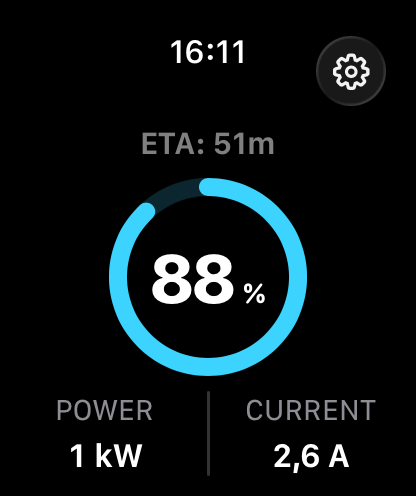
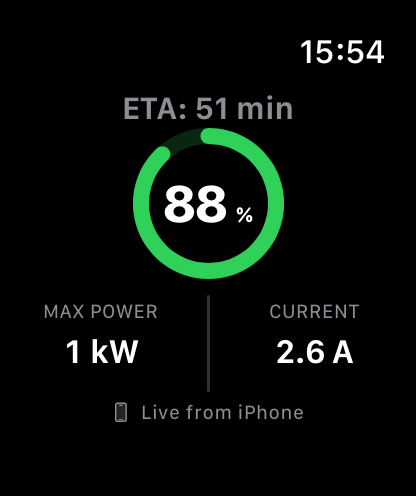
feat: showcase offline maps and App Store availability

diff --git a/app/product-story.tsx b/app/product-story.tsx
@@ -6,6 +6,7 @@ import './product-tour.css';
 
 interface TourCard {
   alt: string;
+  availability?: string;
   copy: string;
   id: string;
   images: readonly { height: number; src: string; width: number }[];
@@ -13,13 +14,12 @@ interface TourCard {
   label: string;
   shortcut: string;
   detail: string;
-  number: string;
+  note?: string;
   title: string;
 }
 
 const tourCards: readonly TourCard[] = [
   {
-    number: '01',
     id: 'showcase-ride',
     label: 'LIVE DASHBOARD',
     title: 'Just you. And the ride.',
@@ -33,19 +33,30 @@ const tourCards: readonly TourCard[] = [
     ],
   },
   {
-    number: '02',
     id: 'showcase-navigation',
     label: 'COMPLETE NAVIGATION',
     title: 'Road planned. Trail remembered.',
     shortcut: 'Navigation',
     detail: 'Road / Enduro / GPX / Recording',
-    copy: 'Search, route, record, import GPX and follow enduro guidance in either direction with an always-available mini map.',
+    copy: 'Search Apple Maps, plan road routes, import GPX and record your ride. Follow enduro guidance in either direction with a mini map close at hand.',
     kind: 'landscape',
     alt: 'FENR route planning map with GPX import and ride recording',
     images: [{ src: '/assets/navigation.webp', width: 2622, height: 1206 }],
   },
   {
-    number: '03',
+    id: 'showcase-offline',
+    label: 'OFFLINE MAPS',
+    availability: 'Coming in 1.2',
+    title: 'Take the map with you.',
+    shortcut: 'Offline maps',
+    detail: 'Areas / GPX coverage / Topographic / Satellite',
+    copy: 'Download an area or coverage around a GPX route. Save topographic maps and optional satellite imagery before heading out.',
+    note: 'Search and calculated road directions still need an internet connection.',
+    kind: 'landscape',
+    alt: 'FENR downloaded map area with topographic and satellite coverage ready offline',
+    images: [{ src: '/assets/offline-maps.webp', width: 2868, height: 1320 }],
+  },
+  {
     id: 'showcase-cards',
     label: 'DYNAMIC CARDS',
     title: 'Your dashboard. Your order.',
@@ -59,13 +70,12 @@ const tourCards: readonly TourCard[] = [
     ],
   },
   {
-    number: '04',
     id: 'showcase-charge',
     label: 'CHARGING',
     title: 'Charging, without guesswork.',
     shortcut: 'Charging',
     detail: 'Charge target / Power / ETA / Temperature',
-    copy: 'Set supported power and target state of charge, then follow ETA, current and temperature in real time.',
+    copy: 'Set supported charging limits now or save them for your next connection. Follow ETA, current and temperature in real time.',
     kind: 'landscape',
     alt: 'FENR charging dashboard with power and charge target controls',
     images: [
@@ -73,7 +83,6 @@ const tourCards: readonly TourCard[] = [
     ],
   },
   {
-    number: '05',
     id: 'showcase-battery',
     label: 'BATTERY HEALTH',
     title: 'Know your battery. Cell by cell.',
@@ -88,19 +97,17 @@ const tourCards: readonly TourCard[] = [
     ],
   },
   {
-    number: '06',
     id: 'showcase-controls',
     label: 'GUARDED CONTROLS',
     title: 'Five maps. Your response.',
     shortcut: 'Controls',
-    detail: 'Power / Regen / Traction / Bike Lock',
-    copy: 'Adjust supported power, regeneration and traction values, with Bike Lock protected by optional PIN and Face ID.',
+    detail: 'Power / Regen / Traction / Regen traction / Bike Lock',
+    copy: 'Tune power, regenerative braking, traction and regen traction on supported firmware. Protect Bike Lock with an optional PIN and Face ID.',
     kind: 'phone',
     alt: 'FENR Power Modes showing five configurable base maps',
     images: [{ src: '/assets/power-modes.webp', width: 1206, height: 2622 }],
   },
   {
-    number: '07',
     id: 'showcase-curves',
     label: 'ADVANCED CURVES',
     title: 'Fine-tune the way it feels.',
@@ -114,7 +121,6 @@ const tourCards: readonly TourCard[] = [
     ],
   },
   {
-    number: '08',
     id: 'showcase-history',
     label: 'RIDE HISTORY',
     title: 'A little more from every ride.',
@@ -126,7 +132,6 @@ const tourCards: readonly TourCard[] = [
     images: [{ src: '/assets/ride-history.webp', width: 1206, height: 2622 }],
   },
   {
-    number: '09',
     id: 'showcase-maintenance',
     label: 'MAINTENANCE LOG',
     title: 'Look after the next ride.',
@@ -138,7 +143,6 @@ const tourCards: readonly TourCard[] = [
     images: [{ src: '/assets/maintenance.webp', width: 1206, height: 2622 }],
   },
   {
-    number: '10',
     id: 'showcase-telemetry',
     label: 'ADVANCED TELEMETRY',
     title: 'For the curious. And the precise.',
@@ -282,7 +286,7 @@ export function ProductStory() {
         aria-label="Scrollable FENR product tour"
         ref={railRef}
       >
-        {tourCards.map((card) => (
+        {tourCards.map((card, index) => (
           <article
             className={`tour-card tour-card-${card.kind}`}
             id={card.id}
@@ -291,19 +295,25 @@ export function ProductStory() {
           >
             <div className="tour-copy">
               <p>
-                {card.number} <span>{card.label}</span>
+                {String(index + 1).padStart(2, '0')} <span>{card.label}</span>
               </p>
+              {card.availability && (
+                <span className="tour-availability">{card.availability}</span>
+              )}
               <h3 id={`${card.id}-title`}>{card.title}</h3>
               <div>{card.copy}</div>
             </div>
             <TourVisual card={card} />
-            <p className="tour-detail">{card.detail}</p>
+            <p className="tour-detail">
+              {card.detail}
+              {card.note && <span className="tour-note">{card.note}</span>}
+            </p>
           </article>
         ))}
       </div>
       <div className="tour-footer">
         <p>
-          <span>{tourCards[activeIndex].number}</span> /{' '}
+          <span>{String(activeIndex + 1).padStart(2, '0')}</span> /{' '}
           {String(tourCards.length).padStart(2, '0')} <i /> Explore the app
         </p>
         <div className="tour-controls">

diff --git a/app/page.tsx b/app/page.tsx
@@ -52,12 +52,12 @@ export default function Home() {
             <ThemeToggle />
             <a
               className="premium-header-cta"
-              href={siteConfig.testFlightUrl}
-              aria-label="Join TestFlight"
+              href={siteConfig.appStoreUrl}
+              aria-label="Download FENR on the App Store"
             >
-              <span className="premium-header-label-full">Join TestFlight</span>
+              <span className="premium-header-label-full">App Store</span>
               <span className="premium-header-label-compact" aria-hidden="true">
-                Join
+                Get app
               </span>
               <ArrowIcon />
             </a>
@@ -80,15 +80,12 @@ export default function Home() {
               Clearly connected.
             </h1>
             <p className="premium-hero-intro">
-              Live telemetry, complete navigation and guarded controls for
+              Live telemetry, road and trail navigation and guarded controls for
               compatible Stark electric motorcycles. Open source, by design.
             </p>
             <div className="premium-hero-actions">
-              <a
-                className="premium-primary-cta"
-                href={siteConfig.testFlightUrl}
-              >
-                Join TestFlight
+              <a className="premium-primary-cta" href={siteConfig.appStoreUrl}>
+                Download on the App Store
                 <ArrowIcon />
               </a>
               <a className="premium-text-link" href="#product">
@@ -169,12 +166,12 @@ export default function Home() {
                   On your wrist.
                 </h3>
                 <p>
-                  Ride and charging telemetry, connected directly to your bike
-                  over Bluetooth. A quick look at what matters, without an
-                  iPhone relay.
+                  Ride and charging telemetry from your paired iPhone. Keep your
+                  iPhone connected to the bike and glance at battery, riding
+                  mode and charge progress on your wrist.
                 </p>
                 <ul>
-                  <li>Direct Bluetooth connection</li>
+                  <li>Updates from your paired iPhone</li>
                   <li>Ride and charge dashboards</li>
                   <li>Compact, read-only telemetry</li>
                 </ul>
@@ -191,7 +188,7 @@ export default function Home() {
                   />
                 </div>
                 <figcaption>
-                  <span /> Connected directly to the bike
+                  <span /> Bike data, shared by your iPhone
                 </figcaption>
               </figure>
             </article>
@@ -278,8 +275,8 @@ export default function Home() {
               <span>02</span>
               <h3>Serialized by design</h3>
               <p>
-                Writes stay ordered, begin with safe no-op checks and preserve
-                every related value.
+                Vehicle changes are applied one at a time, with safeguards for
+                supported firmware and related settings.
               </p>
             </article>
             <article data-reveal>
@@ -301,7 +298,7 @@ export default function Home() {
           </div>
         </section>
 
-        <section className="premium-final-cta" id="testflight">
+        <section className="premium-final-cta" id="download">
           <div className="premium-final-background" aria-hidden="true">
             <ResponsiveImage
               src="/assets/trail.jpg"
@@ -320,14 +317,14 @@ export default function Home() {
               height="76"
               loading="lazy"
             />
-            <p className="premium-eyebrow">JOIN THE BETA</p>
+            <p className="premium-eyebrow">AVAILABLE ON THE APP STORE</p>
             <h2>Take the whole ride with you.</h2>
             <p>
-              Dashboard, navigation, diagnostics and bike care. One focused app,
-              built in the open.
+              Try the built-in demo with no account or motorcycle. Connect your
+              compatible Stark when you are ready to ride.
             </p>
-            <a className="premium-final-button" href={siteConfig.testFlightUrl}>
-              Join TestFlight
+            <a className="premium-final-button" href={siteConfig.appStoreUrl}>
+              Download on the App Store
               <ArrowIcon />
             </a>
             <small>For compatible Stark electric motorcycles</small>

diff --git a/app/terms/page.tsx b/app/terms/page.tsx
@@ -47,9 +47,8 @@ const sections: readonly LegalSection[] = [
           telemetry, battery and charging information, navigation and GPX import
           or export, ride recording and history, maintenance records,
           diagnostics and supported bike controls. The Apple Watch app provides
-          compact telemetry through its own direct Bluetooth connection. Live
-          Activities can display selected bike information outside the iPhone
-          app.
+          compact telemetry relayed by the paired iPhone. Live Activities can
+          display selected bike information outside the iPhone app.
         </p>
         <p>
           Availability depends on the motorcycle, reported firmware,

diff --git a/app/privacy/page.tsx b/app/privacy/page.tsx
@@ -338,9 +338,9 @@ const sections: readonly LegalSection[] = [
           in the browser cache until it expires or you clear it.
         </p>
         <p>
-          Links to TestFlight, GitHub and other sites take you to services with
-          their own privacy practices. They are not embedded trackers on this
-          page.
+          Links to the App Store, GitHub and other sites take you to services
+          with their own privacy practices. They are not embedded trackers on
+          this page.
         </p>
       </>
     ),

diff --git a/app/layout.tsx b/app/layout.tsx
@@ -4,7 +4,7 @@ import './globals.css';
 export const metadata: Metadata = {
   title: 'FENR | Connected riding for Stark electric motorcycles',
   description:
-    'Live telemetry, battery insight and guarded controls for compatible Stark electric motorcycles.',
+    'Live telemetry, road and trail navigation, advanced curves and battery insight for compatible Stark electric motorcycles. For iPhone and Apple Watch.',
   icons: {
     icon: '/assets/favicon-rounded.png',
   },

diff --git a/app/site-config.ts b/app/site-config.ts
@@ -1,11 +1,11 @@
 interface SiteConfig {
   githubUrl: string;
   protocolResearchUrl: string;
-  testFlightUrl: string;
+  appStoreUrl: string;
 }
 
 export const siteConfig: SiteConfig = {
   githubUrl: 'https://github.com/fenrapp',
   protocolResearchUrl: 'https://github.com/fenrapp/bike-protocol-research',
-  testFlightUrl: 'https://testflight.apple.com/join/4SFA4tmG',
+  appStoreUrl: 'https://apps.apple.com/app/id6808795194',
 };

diff --git a/app/product-tour.css b/app/product-tour.css
@@ -136,6 +136,22 @@
   max-width: 12ch;
   text-wrap: balance;
 }
+.tour-availability {
+  color: #ffb36e;
+  display: block;
+  font-size: 12px;
+  font-weight: 600;
+  letter-spacing: 0.08em;
+  margin-bottom: 14px;
+  text-transform: uppercase;
+}
+.tour-note {
+  display: block;
+  font-size: 14px;
+  letter-spacing: normal;
+  margin-top: 8px;
+  max-width: 62ch;
+}
 .tour-copy > div {
   color: #b5beb7;
   font-size: 16px;

diff --git a/README.md b/README.md
@@ -42,7 +42,7 @@ npm run build
 ## 🛠 Working on the site
 
 - **Content and styles:** [`app/`](./app/).
-- **TestFlight and product links:** [`app/site-config.ts`](./app/site-config.ts).
+- **App Store and product links:** [`app/site-config.ts`](./app/site-config.ts).
 - **Media:** originals in [`public/assets/`](./public/assets/), optimized files in [`public/media/`](./public/media/).
 
 Use real light/dark app captures with synthetic data. After replacing images, regenerate the optimized files with `cwebp` installed (`brew install webp` on macOS):
